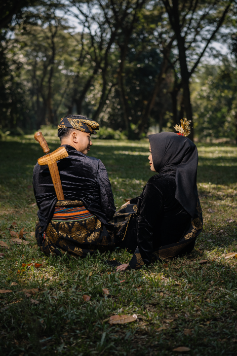
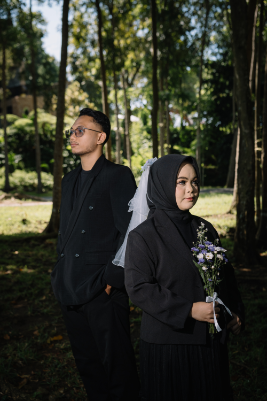
a

diff --git a/tema-deluxe/index.html b/tema-deluxe/index.html
@@ -1290,12 +1290,13 @@ btn_gift.onclick = function(){
     margin-top: 8px; 
     display: block;
 }
-.ucapan-loading, .ucapan-kosong {
+.ucapan-loading, .ucapan-kosong, .ucapan-error {
     text-align: center;
     color: #888;
     padding: 20px;
     font-size: 13px;
 }
+.ucapan-error { color: #FF5252; }
 </style>
 
 <!-- HTML Daftar Ucapan -->
@@ -1303,7 +1304,7 @@ btn_gift.onclick = function(){
     <li class="ucapan-loading">Memuat ucapan...</li>
 </ul>
 
-<!-- HTML Form RSVP (Menggunakan ID Bawaan Tema) -->
+<!-- HTML Form RSVP -->
 <form action="" method="POST" id="commentform-29862">
     <p class="comment-form-author saic-field-1">
         <input type="text" name="author" id="author" class="saic-input" aria-required="true" placeholder="Nama" value="" required />
@@ -1335,12 +1336,13 @@ btn_gift.onclick = function(){
 
 <script>
 (function() {
-    // URL Apps Script TERBARU Anda
+    // ⚠ GANTI URL INI DENGAN URL APPS SCRIPT BARU YANG SUDAH DI-DEPLOY DENGAN BENAR
     const URL_APPS_SCRIPT = "https://script.google.com/macros/s/AKfycbzWaawIvIlzNsRPh7THMirQYLZOCDjq3davmiUkBYWXydnjQj-bHQOgNyreu8CiUY4ZVg/exec";
     
-    // Selector spesifik ke ID bawaan tema (TIDAK akan membajak form lain)
     const formRsvp = document.getElementById("commentform-29862");
     const ulUcapan = document.getElementById('daftar-ucapan-baru');
+    let fetchInterval = null;
+    let isFetching = false;
 
     function escapeHtml(text) {
         if (!text) return '';
@@ -1349,40 +1351,71 @@ btn_gift.onclick = function(){
         return div.innerHTML;
     }
 
+    function showError(message) {
+        ulUcapan.innerHTML = `<li class="ucapan-error">⚠ ${message}</li>`;
+    }
+
+    function showLoading() {
+        ulUcapan.innerHTML = '<li class="ucapan-loading">Memuat ucapan...</li>';
+    }
+
     // Fungsi Fetch & Render Daftar Ucapan
-    function fetchUcapan() {
-        fetch(URL_APPS_SCRIPT, { method: 'GET', redirect: 'follow' })
-            .then(res => res.text()) // Menggunakan .text() untuk antisipasi CORS redirect
-            .then(text => {
-                try {
-                    const data = JSON.parse(text);
-                    if (data.result === "success") {
-                        ulUcapan.innerHTML = '';
-                        if (data.ucapan && data.ucapan.length > 0) {
-                            data.ucapan.forEach(item => {
-                                const li = document.createElement('li');
-                                const badgeClass = item.status === 'Hadir' ? 'badge-hadir' : 'badge-tidak';
-                                const badgeText = item.status === 'Hadir' ? 'Hadir' : 'Tidak Hadir';
-                                
-                                li.innerHTML = `
-                                    <div class="ucapan-nama">
-                                        <span>${escapeHtml(item.nama)}</span>
-                                        <span class="${badgeClass}">${badgeText}</span>
-                                    </div>
-                                    <div class="ucapan-teks">${escapeHtml(item.pesan)}</div>
-                                    <span class="ucapan-waktu">${item.waktu || ''}</span>
-                                `;
-                                ulUcapan.appendChild(li);
-                            });
-                        } else {
-                            ulUcapan.innerHTML = '<li class="ucapan-kosong">Belum ada ucapan. Jadilah yang pertama!</li>';
-                        }
+    function fetchUcapan(showLoadingState = false) {
+        if (isFetching) return; // Prevent multiple simultaneous fetches
+        isFetching = true;
+        
+        if (showLoadingState) showLoading();
+
+        fetch(URL_APPS_SCRIPT, { 
+            method: 'GET', 
+            redirect: 'follow',
+            cache: 'no-cache'
+        })
+        .then(res => {
+            if (!res.ok) throw new Error(`HTTP ${res.status}`);
+            return res.text();
+        })
+        .then(text => {
+            try {
+                const data = JSON.parse(text);
+                
+                if (data.result === "success") {
+                    ulUcapan.innerHTML = '';
+                    
+                    if (data.ucapan && data.ucapan.length > 0) {
+                        data.ucapan.forEach(item => {
+                            const li = document.createElement('li');
+                            const badgeClass = item.status === 'Hadir' ? 'badge-hadir' : 'badge-tidak';
+                            const badgeText = item.status === 'Hadir' ? 'Hadir' : 'Tidak Hadir';
+                            
+                            li.innerHTML = `
+                                <div class="ucapan-nama">
+                                    <span>${escapeHtml(item.nama)}</span>
+                                    <span class="${badgeClass}">${badgeText}</span>
+                                </div>
+                                <div class="ucapan-teks">${escapeHtml(item.pesan)}</div>
+                                <span class="ucapan-waktu">${item.waktu || ''}</span>
+                            `;
+                            ulUcapan.appendChild(li);
+                        });
+                    } else {
+                        ulUcapan.innerHTML = '<li class="ucapan-kosong">Belum ada ucapan. Jadilah yang pertama!</li>';
                     }
-                } catch(e) { 
-                    console.error('Parse JSON error:', e); 
+                } else {
+                    showError(data.message || 'Gagal memuat data');
                 }
-            })
-            .catch(err => console.error("Gagal fetch RSVP:", err));
+            } catch(e) {
+                console.error('Parse JSON error:', e);
+                showError('Format data tidak valid');
+            }
+        })
+        .catch(err => {
+            console.error("Gagal fetch RSVP:", err);
+            showError('Gagal terhubung ke server. Periksa koneksi Anda.');
+        })
+        .finally(() => {
+            isFetching = false;
+        });
     }
 
     // Handle Form Submit
@@ -1411,28 +1444,31 @@ btn_gift.onclick = function(){
                 body: dataDikirim,
                 redirect: 'follow'
             })
-            .then(res => res.text())
+            .then(res => {
+                if (!res.ok) throw new Error(`HTTP ${res.status}`);
+                return res.text();
+            })
             .then(text => {
                 try {
                     const data = JSON.parse(text);
                     if (data.result === "success") {
                         alert("Terima kasih! Konfirmasi RSVP dan ucapan Anda berhasil disimpan.");
                         formRsvp.reset();
-                        fetchUcapan(); // Langsung refresh list ucapan tanpa reload halaman
+                        setTimeout(() => fetchUcapan(true), 1000);
                     } else {
                         alert("Gagal mengirim data: " + (data.message || "Unknown error"));
                     }
                 } catch(e) {
                     alert("Ucapan terkirim! Silakan cek Google Sheets Anda.");
                     formRsvp.reset();
-                    fetchUcapan();
+                    setTimeout(() => fetchUcapan(true), 1000);
                 }
             })
             .catch(error => {
                 console.error("Error:", error);
                 alert("Konfirmasi terkirim! Silakan cek Google Sheets Anda.");
                 formRsvp.reset();
-                fetchUcapan();
+                setTimeout(() => fetchUcapan(true), 1000);
             })
             .finally(() => {
                 if (btnSubmit) {
@@ -1443,15 +1479,22 @@ btn_gift.onclick = function(){
         });
     }
 
-    // Init
-    document.addEventListener('DOMContentLoaded', function() {
-        fetchUcapan();
-        setInterval(fetchUcapan, 15000); // Auto refresh tiap 15 detik
-    });
-    
-    if (document.readyState === 'complete' || document.readyState === 'interactive') {
-        fetchUcapan();
-        setInterval(fetchUcapan, 15000);
+    // Init - Hanya fetch sekali saat load, lalu interval
+    function initUcapan() {
+        fetchUcapan(true);
+        
+        // Clear existing interval if any
+        if (fetchInterval) clearInterval(fetchInterval);
+        
+        // Set interval untuk auto-refresh (tanpa loading state agar tidak mengganggu user)
+        fetchInterval = setInterval(() => fetchUcapan(false), 15000);
+    }
+
+    // Pastikan hanya init sekali
+    if (document.readyState === 'loading') {
+        document.addEventListener('DOMContentLoaded', initUcapan);
+    } else {
+        initUcapan();
     }
 })();
 </script></div></div>				</div>
